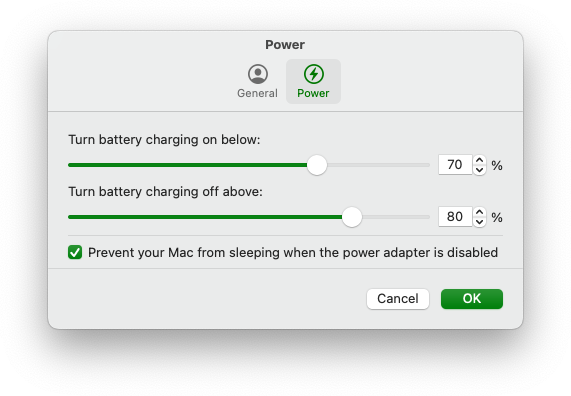
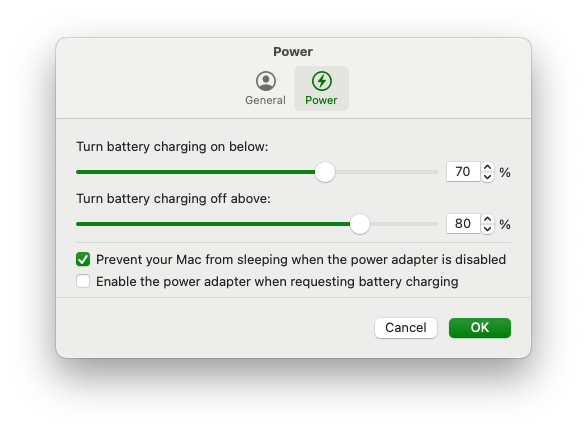
Allow enabling power adapter on charge request

Changed region(s): [[0.0595, 0.1515, 0.9229, 0.8485], [0.1489, 0.0606, 0.8634, 0.1515], [0.4168, 0.1515, 0.5954, 0.2424]]

diff --git a/me.mhaeuser.batterytoolkitd/BTPowerEvents.swift b/me.mhaeuser.batterytoolkitd/BTPowerEvents.swift
@@ -204,6 +204,10 @@ internal enum BTPowerEvents {
             }
         } else if percent < BTSettings.minCharge {
             _ = BTPowerState.enableCharging()
+
+            if BTSettings.chargeEnableAdapter {
+                _ = BTPowerState.enablePowerAdapter()
+            }
         }
 
         return percent
@@ -217,6 +221,25 @@ internal enum BTPowerEvents {
         return !BTPowerState.isPowerAdapterDisabled() &&
             IOPSPrivate.DrawingUnlimitedPower()
     }
+    
+    private static func handlePercentChangedRegistration() {
+        //
+        // If the power adapter should to be re-enabled when battery charging is
+        // requested, we need to keep the percent changed event live.
+        //
+        let shouldChargeEnableAdapter =
+            BTSettings.chargeEnableAdapter &&
+            BTPowerState.isPowerAdapterDisabled()
+        if self.unlimitedPower || shouldChargeEnableAdapter {
+            let success = self.registerPercentChangedHandler()
+            if !success {
+                os_log("Failed to register percent changed handler")
+                self.restoreDefaults()
+            }
+        } else {
+            self.unregisterPercentChangedHandler()
+        }
+    }
 
     private static func handleLimitedPower() {
         //
@@ -226,25 +249,28 @@ internal enum BTPowerEvents {
 
         let unlimitedPower = self.drawingUnlimitedPower()
         self.unlimitedPower = unlimitedPower
-
-        if unlimitedPower {
-            let success = self.registerPercentChangedHandler()
-            if !success {
-                os_log("Failed to register percent changed handler")
-                self.restoreDefaults()
-            }
-        } else {
-            self.unregisterPercentChangedHandler()
+        
+        if !unlimitedPower {
             //
             // Disable charging to not have micro-charges happening when
             // connecting to power.
             //
             _ = BTPowerEvents.disableCharging()
         }
+
+        self.handlePercentChangedRegistration();
         //
         // Restore sleep from the setup phase.
         //
         GlobalSleep.restore()
+    }
+    
+    static func powerAdapterStateChanged() {
+        self.handlePercentChangedRegistration();
+    }
+    
+    static func chargeEnableAdapterSettingToggled() {
+        self.handlePercentChangedRegistration();
     }
 
     private static func restoreDefaults() {
@@ -271,6 +297,10 @@ internal enum BTPowerEvents {
 
         guard let (percent, _, _) = IOPSPrivate.GetPercentRemaining() else {
             return false
+        }
+
+        if BTSettings.chargeEnableAdapter {
+            _ = BTPowerState.enablePowerAdapter()
         }
 
         if percent < threshold {

diff --git a/me.mhaeuser.batterytoolkitd/BTSettings.swift b/me.mhaeuser.batterytoolkitd/BTSettings.swift
@@ -11,10 +11,14 @@ internal enum BTSettings {
     private(set) static var minCharge = BTSettingsInfo.Defaults.minCharge
     private(set) static var maxCharge = BTSettingsInfo.Defaults.maxCharge
     private(set) static var adapterSleep = BTSettingsInfo.Defaults.adapterSleep
+    private(set) static var chargeEnableAdapter = BTSettingsInfo.Defaults.chargeEnableAdapter
 
     static func readDefaults() {
         self.adapterSleep = UserDefaults.standard.bool(
             forKey: BTSettingsInfo.Keys.adapterSleep
+        )
+        self.chargeEnableAdapter = UserDefaults.standard.bool(
+            forKey: BTSettingsInfo.Keys.chargeEnableAdapter
         )
 
         let minCharge = UserDefaults.standard.integer(
@@ -56,10 +60,12 @@ internal enum BTSettings {
         let minCharge = NSNumber(value: self.minCharge)
         let maxCharge = NSNumber(value: self.maxCharge)
         let adapterSleep = NSNumber(value: self.adapterSleep)
+        let chargeEnableAdapter = NSNumber(value: self.chargeEnableAdapter)
         let settings: [String: NSObject & Sendable] = [
             BTSettingsInfo.Keys.minCharge: minCharge,
             BTSettingsInfo.Keys.maxCharge: maxCharge,
             BTSettingsInfo.Keys.adapterSleep: adapterSleep,
+            BTSettingsInfo.Keys.chargeEnableAdapter: chargeEnableAdapter
         ]
 
         return settings
@@ -92,6 +98,13 @@ internal enum BTSettings {
             BTSettingsInfo.Defaults.adapterSleep
 
         self.setAdapterSleep(enabled: adapterSleep)
+
+        let chargeEnableAdapterNum =
+            settings[BTSettingsInfo.Keys.chargeEnableAdapter] as? NSNumber
+        let chargeEnableAdapter = chargeEnableAdapterNum?.boolValue ??
+            BTSettingsInfo.Defaults.chargeEnableAdapter
+
+        self.setChargeEnableAdapter(enabled: chargeEnableAdapter)
 
         self.writeDefaults()
 
@@ -130,6 +143,16 @@ internal enum BTSettings {
         BTPowerState.adapterSleepSettingToggled()
     }
 
+    private static func setChargeEnableAdapter(enabled: Bool) {
+        guard self.chargeEnableAdapter != enabled else {
+            return
+        }
+
+        self.chargeEnableAdapter = enabled
+
+        BTPowerEvents.chargeEnableAdapterSettingToggled()
+    }
+
     private static func writeDefaults() {
         assert(
             BTSettingsInfo.chargeLimitsValid(
@@ -149,6 +172,10 @@ internal enum BTSettings {
         UserDefaults.standard.set(
             self.adapterSleep,
             forKey: BTSettingsInfo.Keys.adapterSleep
+        )
+        UserDefaults.standard.set(
+            self.chargeEnableAdapter,
+            forKey: BTSettingsInfo.Keys.chargeEnableAdapter
         )
         //
         // As NSUserDefaults are not automatically synchronized without

diff --git a/BatteryToolkit/Views/Settings/BTSettingsViewController.swift b/BatteryToolkit/Views/Settings/BTSettingsViewController.swift
@@ -25,6 +25,7 @@ internal final class BTSettingsViewController: NSViewController {
     @IBOutlet private var maxChargeSlider: NSSlider!
 
     @IBOutlet private var adapterSleepButton: NSButton!
+    @IBOutlet private var chargeEnableAdapterButton: NSButton!
 
     private var minChargeVal = BTSettingsInfo.Defaults.minCharge
     @objc private dynamic var minChargeNum: NSNumber {
@@ -123,6 +124,9 @@ internal final class BTSettingsViewController: NSViewController {
             BTSettingsInfo.Keys.adapterSleep: NSNumber(
                 value: self.adapterSleepButton.state == NSControl.StateValue.off
             ),
+            BTSettingsInfo.Keys.chargeEnableAdapter: NSNumber(
+                value: self.chargeEnableAdapterButton.state == NSControl.StateValue.on
+            )
         ]
         //
         // Submit the settings to the daemon only when they changed.
@@ -200,6 +204,12 @@ internal final class BTSettingsViewController: NSViewController {
             NSControl.StateValue.on
     }
 
+    private func setChargeEnableAdapter(value: Bool) {
+        self.chargeEnableAdapterButton.state = value ?
+            NSControl.StateValue.on :
+            NSControl.StateValue.off
+    }
+
     private func initGeneralState() {
         let autostart = UserDefaults.standard.bool(
             forKey: self.autostartSetting
@@ -225,6 +235,8 @@ internal final class BTSettingsViewController: NSViewController {
                     settings[BTSettingsInfo.Keys.maxCharge] as? NSNumber
                 let adapterSleepNum =
                     settings[BTSettingsInfo.Keys.adapterSleep] as? NSNumber
+                let chargeEnableAdapterNum =
+                    settings[BTSettingsInfo.Keys.chargeEnableAdapter] as? NSNumber
 
                 let minCharge = minChargeNum?.intValue ??
                     Int(BTSettingsInfo.Defaults.minCharge)
@@ -232,10 +244,13 @@ internal final class BTSettingsViewController: NSViewController {
                     Int(BTSettingsInfo.Defaults.maxCharge)
                 let adapterSleep = adapterSleepNum?.boolValue ??
                     BTSettingsInfo.Defaults.adapterSleep
+                let chargeEnableAdapter = chargeEnableAdapterNum?.boolValue ??
+                    BTSettingsInfo.Defaults.chargeEnableAdapter
 
                 self.setMinCharge(value: minCharge)
                 self.setMaxCharge(value: maxCharge)
                 self.setAdapterSleep(value: adapterSleep)
+                self.setChargeEnableAdapter(value: chargeEnableAdapter)
             }
         }
     }

diff --git a/Common/BTSettingsInfo.swift b/Common/BTSettingsInfo.swift
@@ -1,5 +1,5 @@
 //
-// Copyright (C) 2022 Marvin Häuser. All rights reserved.
+// Copyright (C) 2022 - 2023 Marvin Häuser. All rights reserved.
 // SPDX-License-Identifier: BSD-3-Clause
 //
 
@@ -10,6 +10,7 @@ internal enum BTSettingsInfo {
         static let minCharge: UInt8 = 70
         static let maxCharge: UInt8 = 80
         static let adapterSleep = false
+        static let chargeEnableAdapter = false
     }
 
     enum Bounds {
@@ -21,6 +22,7 @@ internal enum BTSettingsInfo {
         static let minCharge = "MinCharge"
         static let maxCharge = "MaxCharge"
         static let adapterSleep = "AdapterSleep"
+        static let chargeEnableAdapter = "ChargeEnableAdapter"
     }
 
     static func chargeLimitsValid(

diff --git a/me.mhaeuser.batterytoolkitd/BTPowerState.swift b/me.mhaeuser.batterytoolkitd/BTPowerState.swift
@@ -94,6 +94,8 @@ internal enum BTPowerState {
             return false
         }
 
+        BTPowerEvents.powerAdapterStateChanged()
+
         self.powerDisabled = true
         return true
     }
@@ -108,6 +110,8 @@ internal enum BTPowerState {
             os_log("Failed to enable power adapter")
             return false
         }
+
+        BTPowerEvents.powerAdapterStateChanged()
 
         self.restoreAdapterSleep()
 
